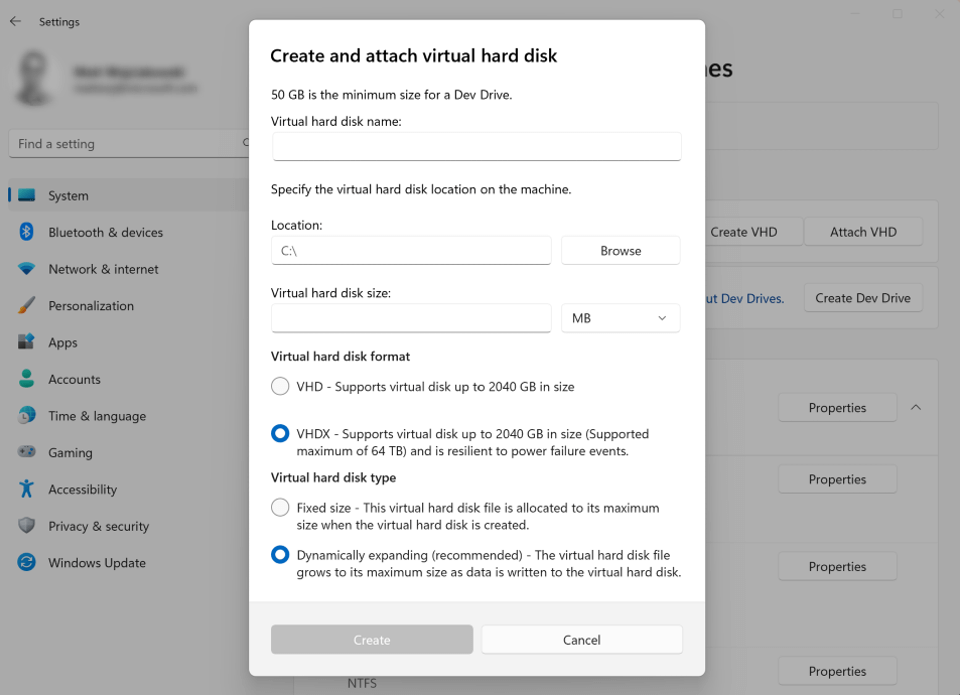
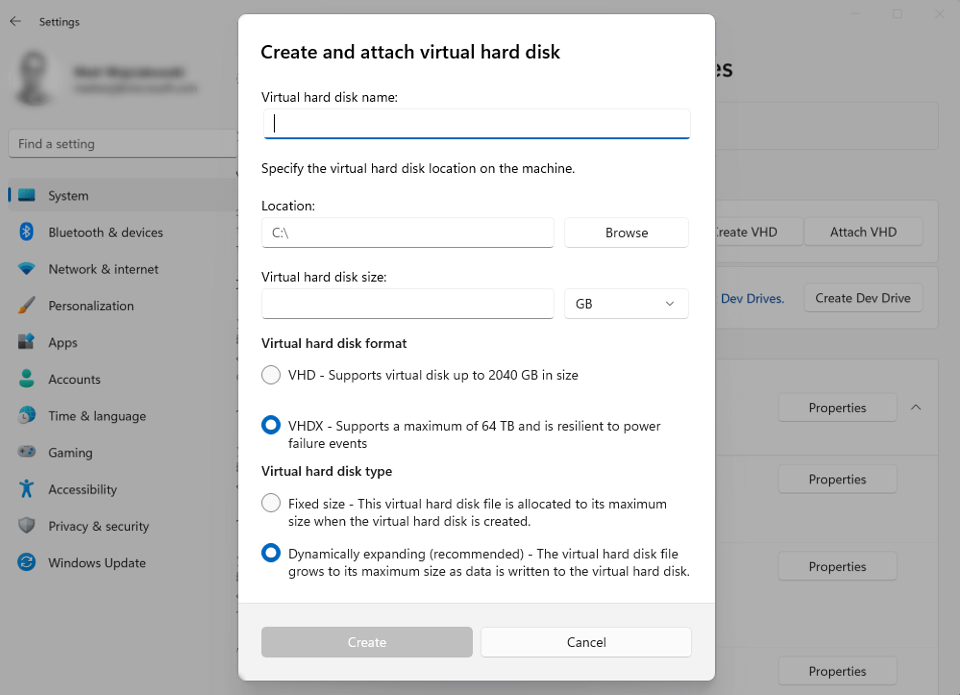
Update Dev Drive screenshot (#4209)
* Update Dev Drive creation options screenshot

* Update Dev Drive creation screenshot

* Update screenshot

diff --git a/hub/dev-drive/index.md b/hub/dev-drive/index.md
@@ -52,11 +52,11 @@ When choosing the **Create new VHD** option to set up a Dev Drive, you will then
 - **Location**: Assign a directory path where the Dev Drive VHD will be located on your machine. The default location is `C:\`, unless creating a Dev Drive using [Dev Home](../dev-home/index.md), in which case the default location is `%userprofile%\DevDrives`. We recommend using a per-user directory path location to store your Dev Drive to avoid any unintentional sharing.
 - **Virtual hard disk size**: Assign the amount of disk space that will be allocated for the volume to use, minimum size is 50GB.
 - **Virtual hard disk format**:
-  - **VHD**: Supports virtual disks up to 2040GB in size.
-  - **VHDX** (Recommended): Supports virtual disks up to 64TB in size and offers more resilient protection against unexpected IO failure caused by issues like power outage). [Learn more about Managing VHDs](/windows-server/storage/disk-management/manage-virtual-hard-disks).
+  - **VHD**: Supports virtual disks up to 2040 GB in size.
+  - **VHDX** (Recommended): Supports a maximum of 64 TB and offers more resilient protection against unexpected IO failure caused by issues like power outage. [Learn more about Managing VHDs](/windows-server/storage/disk-management/manage-virtual-hard-disks).
 - **Disk type**:
-  - **Fixed size** - This virtual hard disk file is allocated to the maximum size when created 
-  - **Dynamically expanding** - Grows to maximum size as data is written (Recommended)
+  - **Fixed size** - This virtual hard disk file is allocated to the maximum size when created.
+  - **Dynamically expanding** - The virtual hard disk file grows to its maximum size as data is written to the disk. (Recommended)
 
 Once you complete the process of selecting between these options, your Dev Drive will be created.
 
